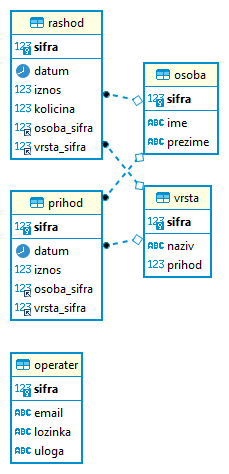
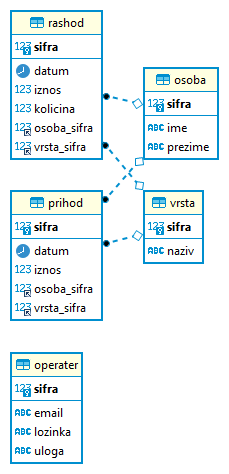
Update

diff --git a/src/main/java/budzet/view/PrihodProzor.java b/src/main/java/budzet/view/PrihodProzor.java
@@ -48,9 +48,6 @@ public class PrihodProzor extends javax.swing.JFrame {
         DecimalFormatSymbols symbols = new DecimalFormatSymbols(new Locale("hr", "HR"));
         nf = new DecimalFormat("###,###.00", symbols);
         postavke();
-        
-
-        
 
     }
 
@@ -58,33 +55,26 @@ public class PrihodProzor extends javax.swing.JFrame {
         obradavrsta = new ObradaVrsta();
         obradaosoba = new ObradaOsoba();
         obrada = new ObradaPrihod();
-        
-        
+
         DecimalFormatSymbols symbols = new DecimalFormatSymbols(new Locale("hr", "HR"));
         nf = new DecimalFormat("###,###.00", symbols);
-        
+
         DatePickerSettings dps = new DatePickerSettings(new Locale("hr", "HR"));
         dps.setFormatForDatesCommonEra("dd.MM.yyyy");
         dps.setTranslationClear("Očisti");
         dps.setTranslationToday("Danas");
         dpDatum.setSettings(dps);
-        
-        
-       
-        
+
         ucitajOsobe();
         ucitajVrste();
         ucitaj();
-       
 
     }
 
     private void ucitaj() {
         TablicaModelPrihod m = new TablicaModelPrihod(new ObradaPrihod().read());
         tbPrihod.setModel(m);
-        
-        
-    
+
     }
 
     private void ucitajVrste() {
@@ -413,7 +403,6 @@ public class PrihodProzor extends javax.swing.JFrame {
             obradavrsta.setEntitet(new Vrsta());
             var v = obradavrsta.getEntitet();
             v.setNaziv(txtVrsta.getText());
-            v.setPrihod(false);
             obradavrsta.create();
             System.out.println("Kreirao vrstu: " + v.getNaziv());
             ucitajVrste();
@@ -432,9 +421,9 @@ public class PrihodProzor extends javax.swing.JFrame {
         }
 
         if (JOptionPane.showConfirmDialog(
-            getRootPane(),
-            "Sigurno obrisati ?", "Brisanje", JOptionPane.YES_NO_OPTION, JOptionPane.QUESTION_MESSAGE) == JOptionPane.NO_OPTION) {
-        return;
+                getRootPane(),
+                "Sigurno obrisati ?", "Brisanje", JOptionPane.YES_NO_OPTION, JOptionPane.QUESTION_MESSAGE) == JOptionPane.NO_OPTION) {
+            return;
         }
 
         try {
@@ -470,9 +459,9 @@ public class PrihodProzor extends javax.swing.JFrame {
 
     private void btnKreirajActionPerformed(java.awt.event.ActionEvent evt) {//GEN-FIRST:event_btnKreirajActionPerformed
         try {
-            
-                obrada.setEntitet(new Prihod());
-            
+
+            obrada.setEntitet(new Prihod());
+
             preuzmiVrijednosti();
             obrada.create();
             ucitaj();

diff --git a/src/main/java/budzet/view/RashodProzor.java b/src/main/java/budzet/view/RashodProzor.java
@@ -46,9 +46,6 @@ public class RashodProzor extends javax.swing.JFrame {
         DecimalFormatSymbols symbols = new DecimalFormatSymbols(new Locale("hr", "HR"));
         nf = new DecimalFormat("###,###.00", symbols);
         postavke();
-        
-
-        
 
     }
 
@@ -56,33 +53,26 @@ public class RashodProzor extends javax.swing.JFrame {
         obradavrsta = new ObradaVrsta();
         obradaosoba = new ObradaOsoba();
         obrada = new ObradaRashod();
-        
-        
-        
-        
+
         DatePickerSettings dps = new DatePickerSettings(new Locale("hr", "HR"));
         dps.setFormatForDatesCommonEra("dd.MM.yyyy");
         dps.setTranslationClear("Očisti");
         dps.setTranslationToday("Danas");
         dpDatum.setSettings(dps);
-        
+
         DecimalFormatSymbols symbols = new DecimalFormatSymbols(new Locale("hr", "HR"));
         nf = new DecimalFormat("###,###.00", symbols);
-       
-        
+
         ucitajOsobe();
         ucitajVrste();
         ucitaj();
-       
 
     }
 
     private void ucitaj() {
         TablicaModelRashod m = new TablicaModelRashod(new ObradaRashod().read());
         tbRashod.setModel(m);
-        
-        
-    
+
     }
 
     private void ucitajVrste() {
@@ -426,7 +416,6 @@ public class RashodProzor extends javax.swing.JFrame {
             obradavrsta.setEntitet(new Vrsta());
             var v = obradavrsta.getEntitet();
             v.setNaziv(txtVrsta.getText());
-            v.setPrihod(false);
             obradavrsta.create();
             System.out.println("Kreirao vrstu: " + v.getNaziv());
             ucitajVrste();
@@ -445,9 +434,9 @@ public class RashodProzor extends javax.swing.JFrame {
         }
 
         if (JOptionPane.showConfirmDialog(
-            getRootPane(),
-            "Sigurno obrisati ?", "Brisanje", JOptionPane.YES_NO_OPTION, JOptionPane.QUESTION_MESSAGE) == JOptionPane.NO_OPTION) {
-        return;
+                getRootPane(),
+                "Sigurno obrisati ?", "Brisanje", JOptionPane.YES_NO_OPTION, JOptionPane.QUESTION_MESSAGE) == JOptionPane.NO_OPTION) {
+            return;
         }
 
         try {
@@ -483,9 +472,9 @@ public class RashodProzor extends javax.swing.JFrame {
 
     private void btnKreirajActionPerformed(java.awt.event.ActionEvent evt) {//GEN-FIRST:event_btnKreirajActionPerformed
         try {
-            
-                obrada.setEntitet(new Rashod());
-            
+
+            obrada.setEntitet(new Rashod());
+
             preuzmiVrijednosti();
             obrada.create();
             ucitaj();

diff --git a/src/main/java/budzet/model/Vrsta.java b/src/main/java/budzet/model/Vrsta.java
@@ -11,19 +11,9 @@ import javax.persistence.Entity;
  * @author Ivan
  */
 @Entity
-public class Vrsta extends Entitet{
+public class Vrsta extends Entitet {
 
-    
     private String naziv;
-    private boolean prihod;
-
-    public boolean isPrihod() {
-        return prihod;
-    }
-
-    public void setPrihod(boolean prihod) {
-        this.prihod = prihod;
-    }
 
     public String getNaziv() {
         return naziv;
@@ -32,8 +22,9 @@ public class Vrsta extends Entitet{
     public void setNaziv(String vrsta) {
         this.naziv = vrsta;
     }
-     @Override
-    public String toString(){
+
+    @Override
+    public String toString() {
         return naziv;
     }
 
